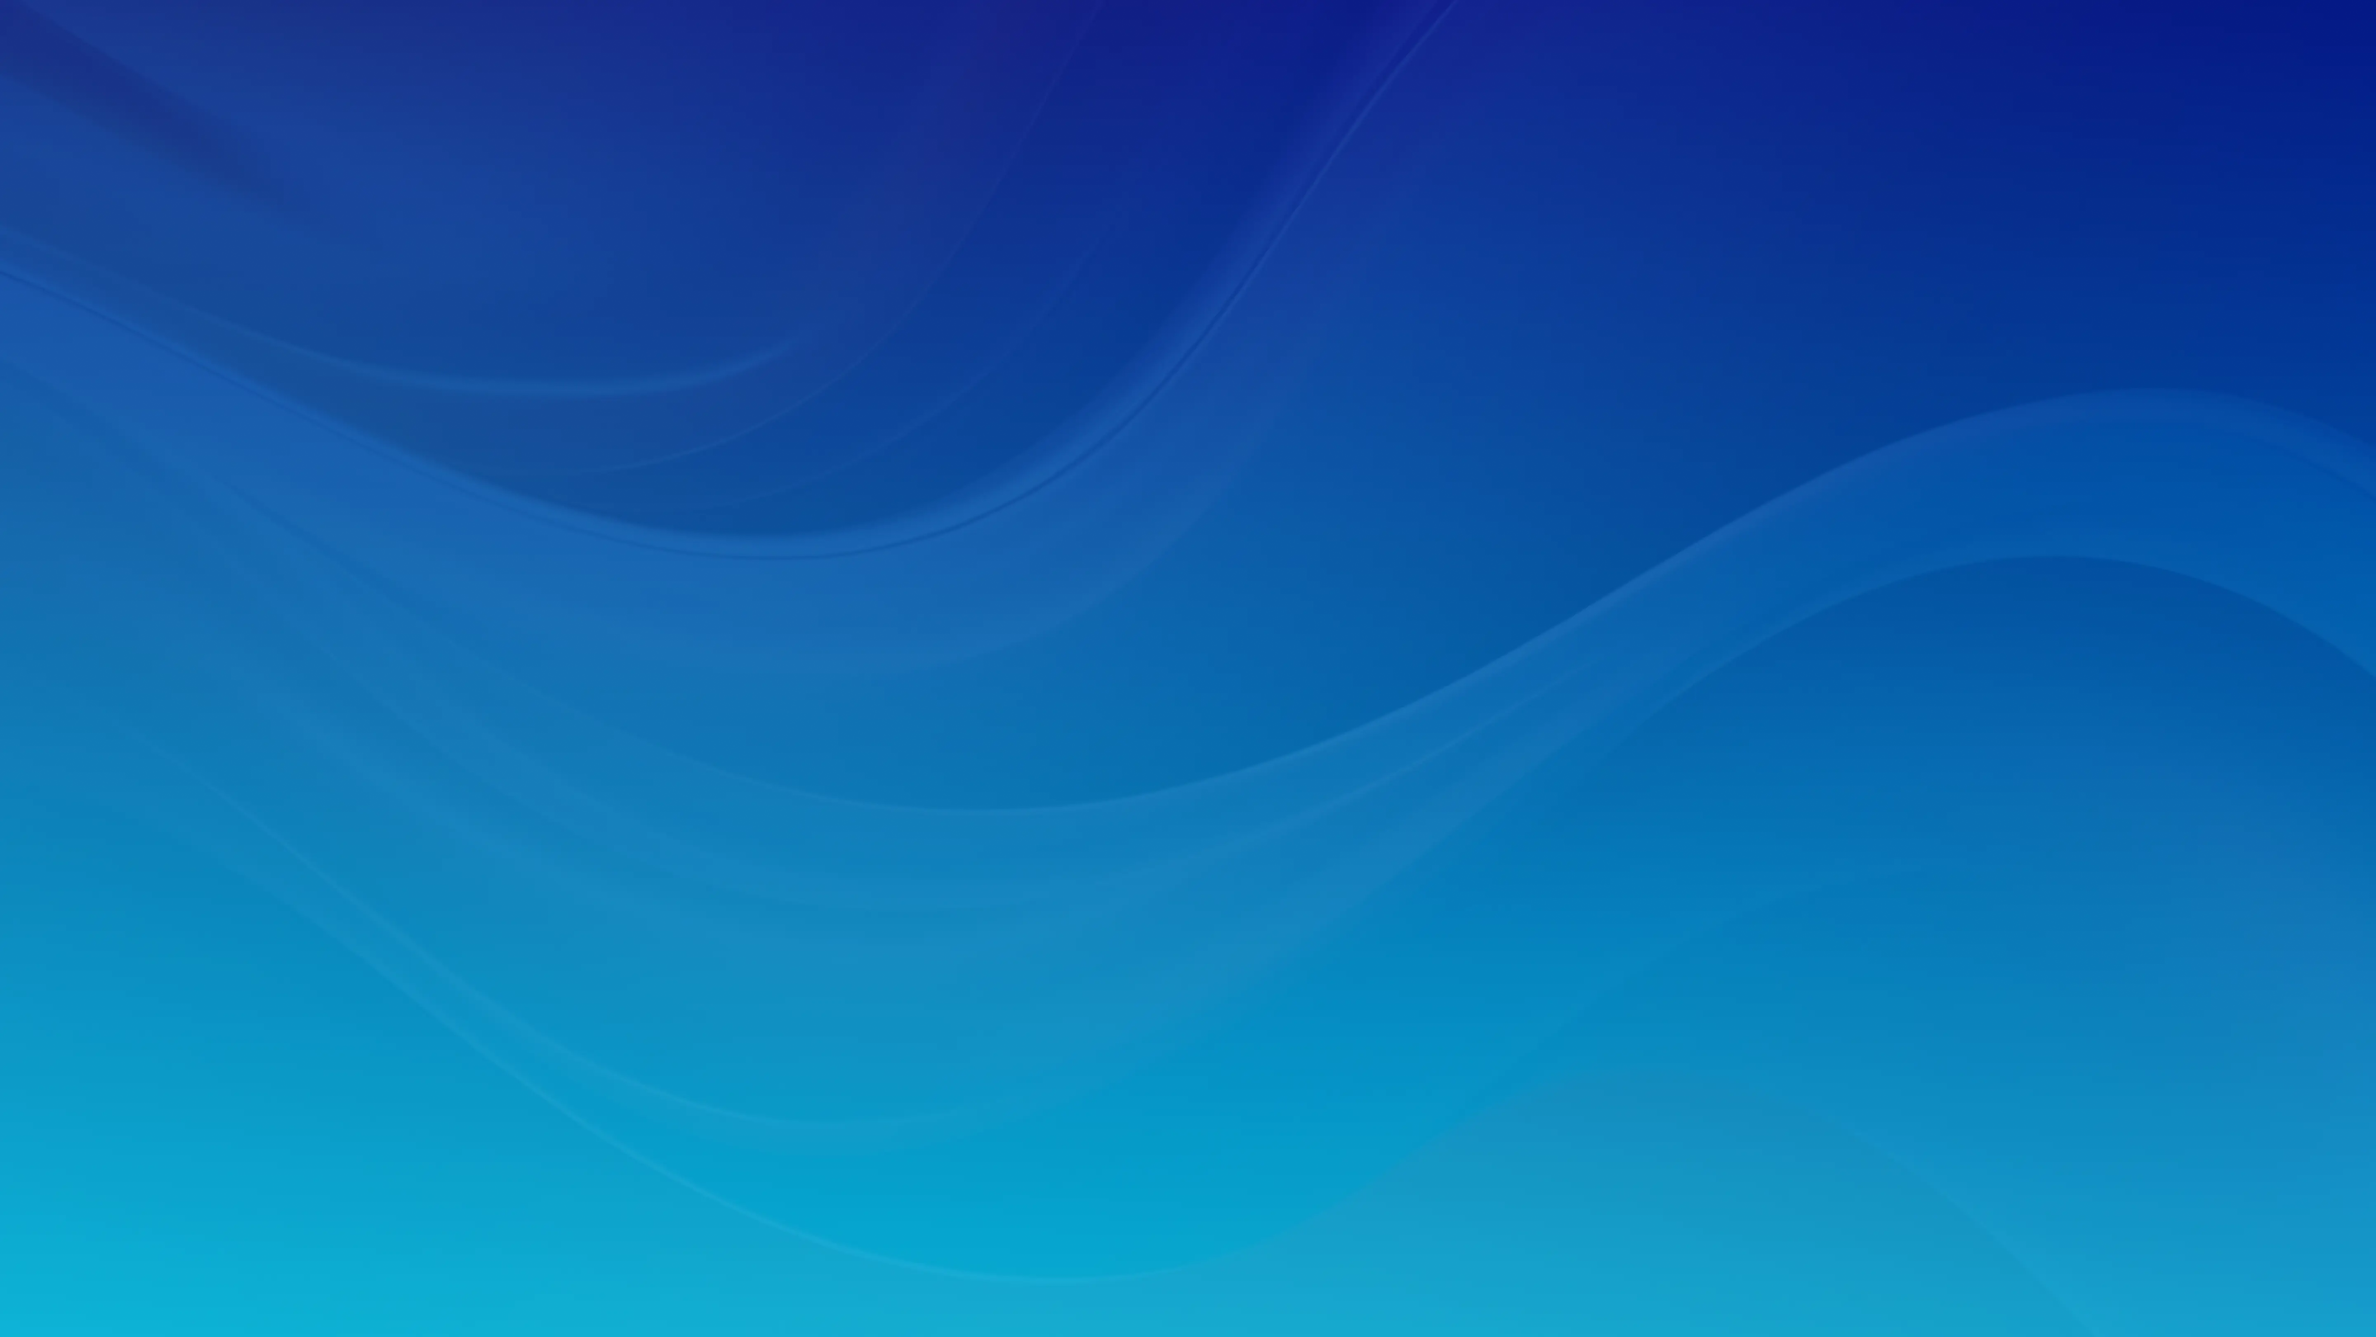
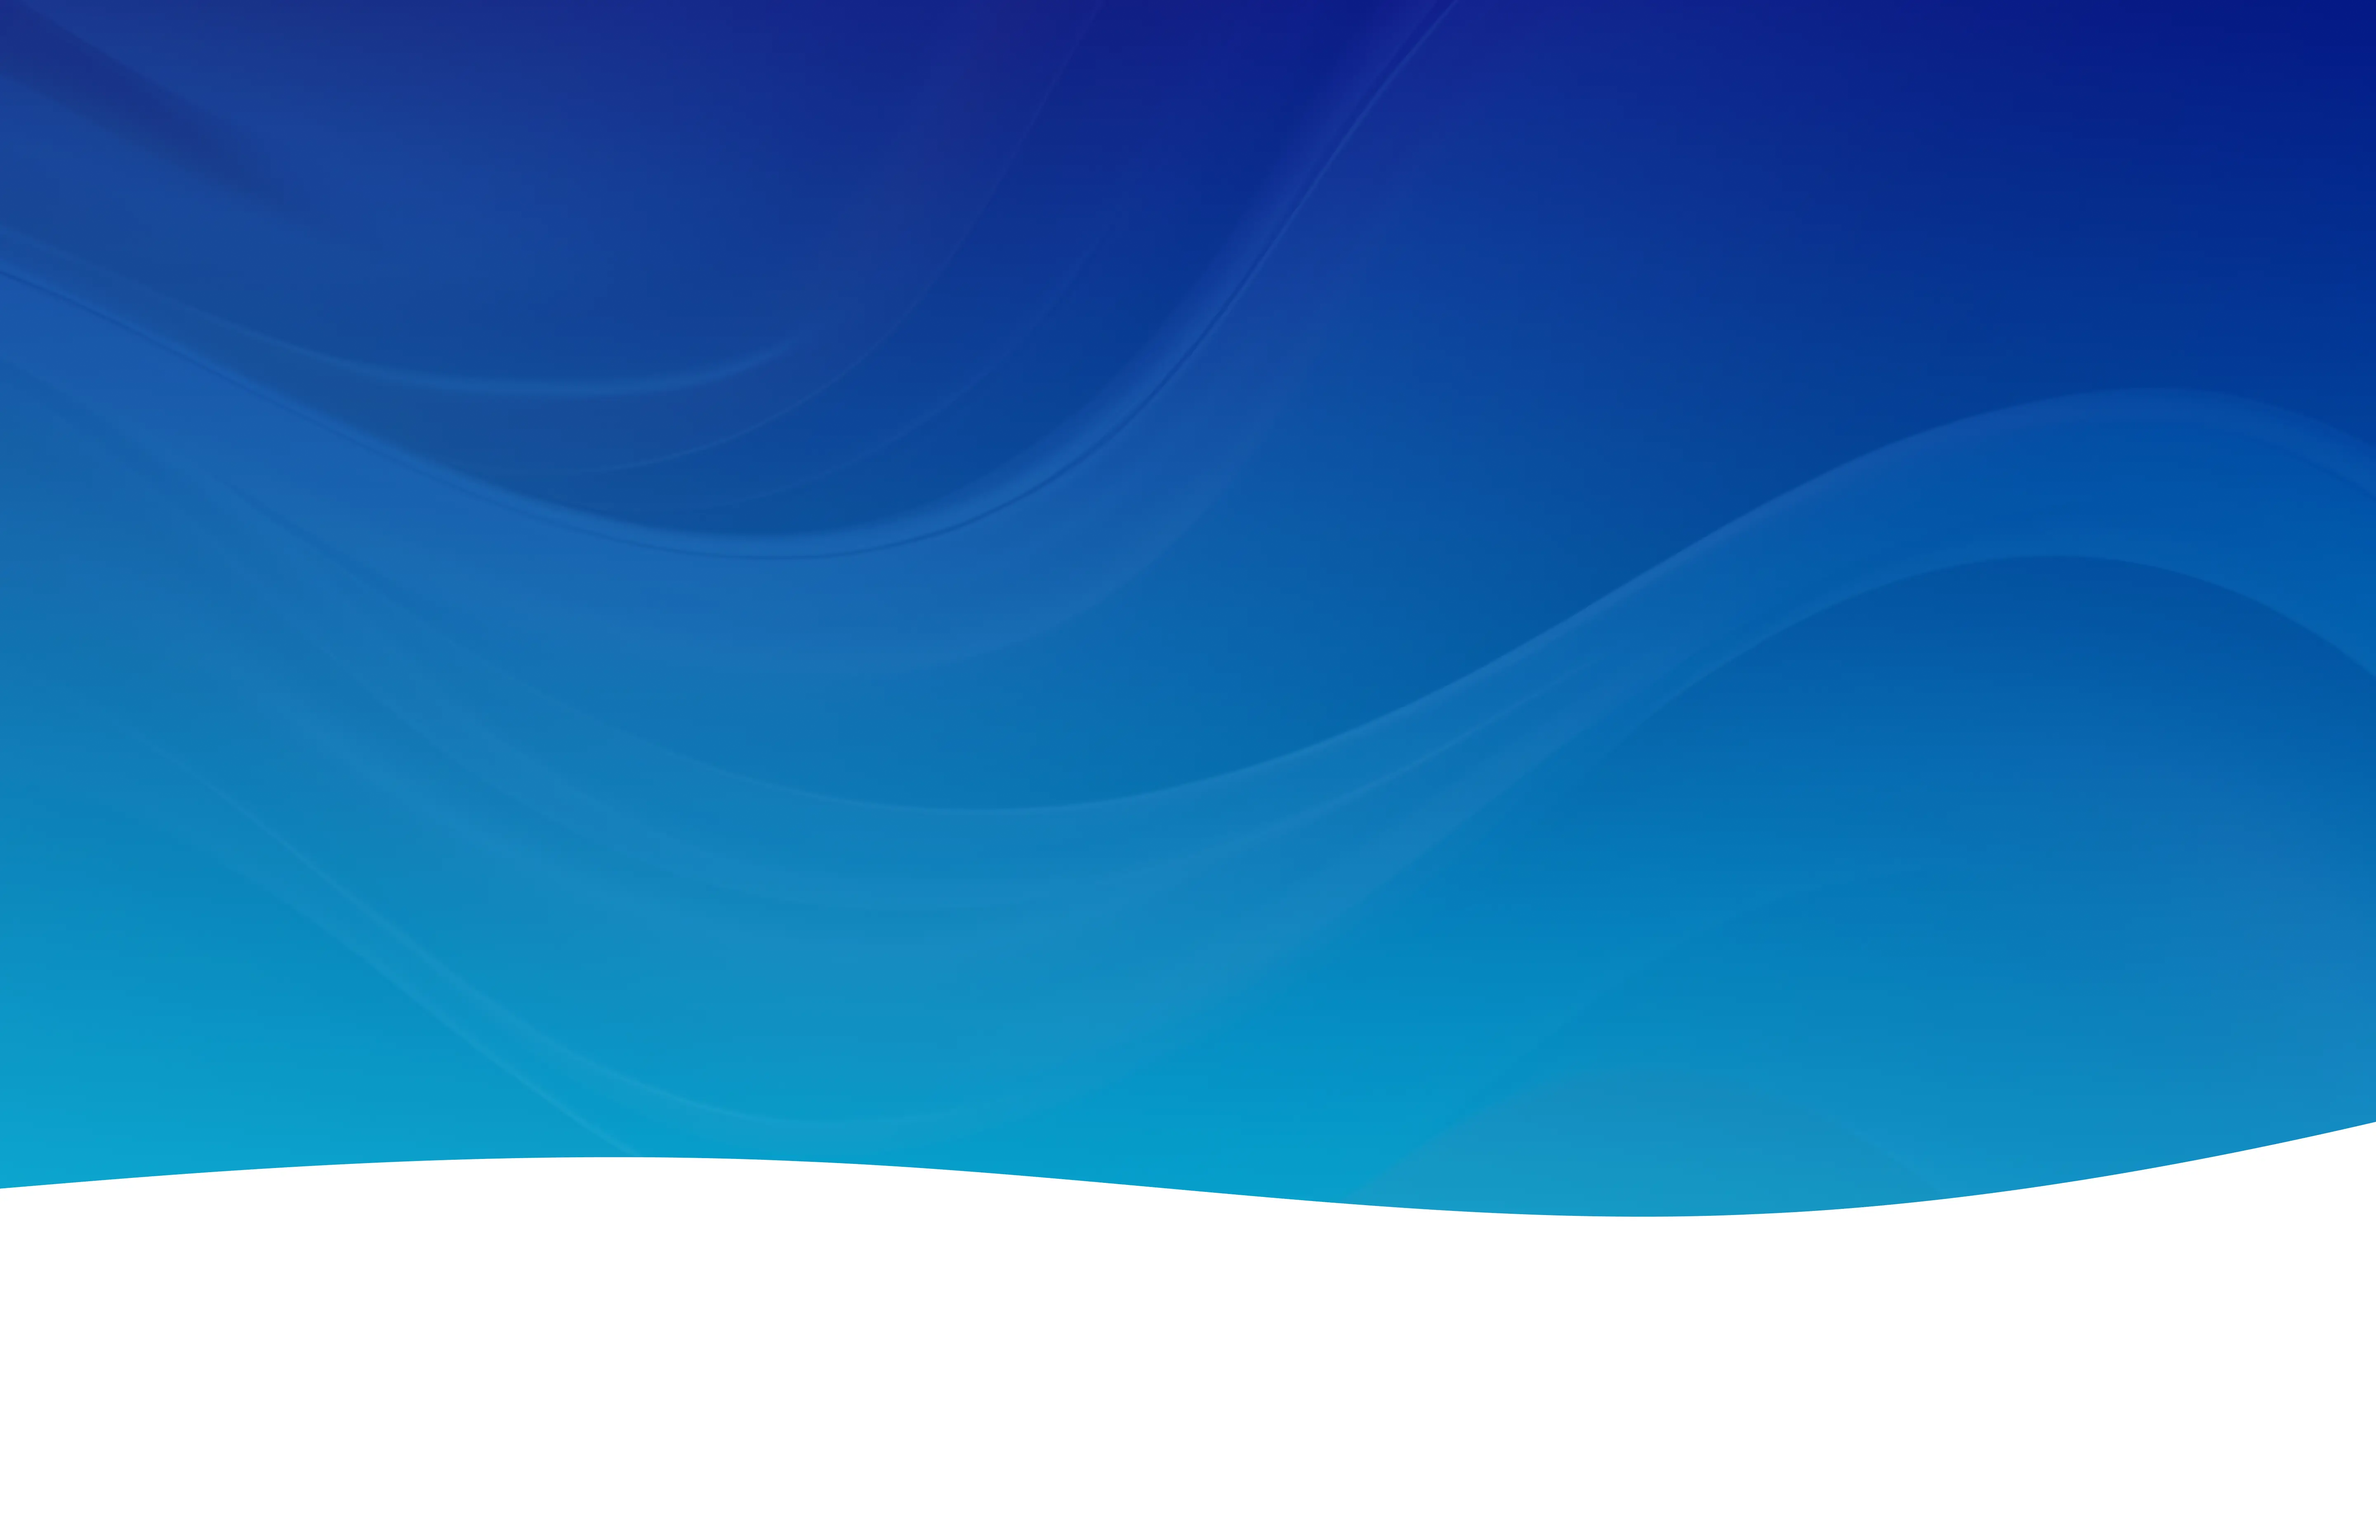
Header

Changed region(s): [[0.0, 0.717, 1.0, 1.0], [0.25, 0.3429, 0.3438, 0.4052], [0.4062, 0.3117, 0.4375, 0.3429]]

diff --git a/src/components/common/Icons.jsx b/src/components/common/Icons.jsx
@@ -1,7 +1,24 @@
-import React from 'react'
 
-export const Icons = () => {
+export const Help = () => {
   return (
-    <div>Icons</div>
+    <svg width="41" height="41" viewBox="0 0 41 41" fill="none" xmlns="http://www.w3.org/2000/svg">
+    <g clip-path="url(#clip0_103_768)">
+    <path d="M16.8691 0.822147C13.3379 2.1659 11.0254 3.94715 9.30664 6.63465C8.30664 8.19715 7.18164 11.5409 7.18164 12.9159C7.18164 13.5096 6.99414 13.9159 6.65039 14.0096C3.71289 14.9471 3.43164 15.6346 3.43164 22.1034C3.43164 28.1346 3.71289 29.0721 5.77539 29.9471C7.08789 30.4784 10.3379 30.5409 10.8691 30.0096C11.4004 29.4784 11.4004 14.7284 10.8691 14.1971C10.6504 13.9784 10.1504 13.8221 9.74414 13.8221C8.99414 13.8221 8.96289 13.7596 9.15039 12.1971C9.74414 7.4159 13.9316 3.19715 19.1816 2.2284C25.2441 1.13465 31.9629 6.07215 32.7129 12.1971C32.9004 13.7596 32.8691 13.8221 32.1191 13.8221C30.6816 13.8221 30.6191 14.1034 30.6191 22.1034C30.6191 30.0721 30.6816 30.3846 32.0879 30.3846C32.9629 30.3846 33.0566 31.3846 32.3379 33.1346C31.6191 34.8221 30.6816 35.6659 28.9316 36.1659C26.5879 36.8846 25.8691 36.7909 25.2441 35.6971L24.7129 34.7596H21.4629C19.3691 34.7596 18.1191 34.8846 17.8691 35.1346C17.3691 35.6346 17.3691 39.5096 17.8691 40.0096C18.1191 40.2596 19.4316 40.3846 21.6504 40.3846H25.0566L25.4004 39.4784C25.6816 38.6659 25.9316 38.5721 27.4629 38.3846C31.4941 37.9159 33.7754 35.9471 34.4629 32.3221C34.7754 30.5721 34.9004 30.4159 36.0254 29.9159C38.1816 28.9471 38.4316 28.1659 38.4316 22.1034C38.4316 15.6346 38.1504 14.9471 35.2441 14.0096C34.8691 13.9159 34.6816 13.5096 34.6816 12.9159C34.6816 11.5409 33.5566 8.19715 32.5566 6.63465C31.1504 4.4159 29.4004 2.9159 26.8691 1.6659C24.6816 0.603397 24.3066 0.540897 21.2441 0.478397C19.0879 0.415897 17.5879 0.540897 16.8691 0.822147ZM9.36914 22.1034V28.5096H8.15039C7.27539 28.5096 6.61914 28.2909 6.02539 27.7596L5.15039 27.0096V22.1034V17.1971L6.02539 16.4471C6.61914 15.9159 7.27539 15.6971 8.15039 15.6971H9.36914V22.1034ZM35.8379 16.4471L36.7129 17.1971V22.1034V27.0096L35.8379 27.7596C35.2441 28.2909 34.5879 28.5096 33.7129 28.5096H32.4941V22.1034V15.6971H33.7129C34.5879 15.6971 35.2441 15.9159 35.8379 16.4471ZM23.7441 37.7284V38.8221H21.5566H19.3691V37.7284V36.6346H21.5566H23.7441V37.7284Z" fill="#03045E"/>
+    <g clip-path="url(#clip1_103_768)">
+    <path d="M19.0068 12.472C18.582 12.5712 17.7041 12.9252 17.0244 13.2509C15.2827 14.1146 13.9941 15.4315 13.1304 17.2299C12.3657 18.8016 12.1816 19.6229 12.1816 21.3221C12.1816 23.0214 12.3657 23.8427 13.1304 25.4144C14.0225 27.2694 15.2969 28.5438 17.1519 29.4359C18.7236 30.2006 19.5449 30.3846 21.2441 30.3846C22.9434 30.3846 23.7646 30.2006 25.3364 29.4359C26.3984 28.9261 26.8657 28.6005 27.687 27.765C28.5225 26.9437 28.8481 26.4764 29.3579 25.4144C30.1226 23.8427 30.3066 23.0214 30.3066 21.3221C30.3066 19.6229 30.1226 18.8016 29.3579 17.2299C28.4658 15.3749 27.1914 14.1005 25.3364 13.2084C24.6001 12.8544 23.6655 12.5004 23.2549 12.4154C22.2637 12.203 19.9414 12.2313 19.0068 12.472ZM22.9717 13.265C23.3823 13.35 24.2461 13.6757 24.8833 13.973C27.6587 15.3041 29.457 18.1786 29.457 21.3221C29.457 22.6815 29.2305 23.6161 28.5933 24.9613C27.5596 27.1278 25.2939 28.8978 22.9717 29.3793C19.29 30.1439 15.481 28.2748 13.895 24.9613C13.2578 23.6161 13.0312 22.6815 13.0312 21.3221C13.0312 19.9628 13.2578 19.0282 13.895 17.683C14.9004 15.5731 17.0103 13.8597 19.29 13.3075C20.2388 13.0809 21.9946 13.0668 22.9717 13.265Z" fill="#00B5D8"/>
+    <path d="M20.3521 16.7059C19.3608 17.0741 18.6953 17.9803 18.6953 18.9574C18.6953 19.807 19.3184 19.7787 19.5449 18.9291C19.7432 18.1786 20.1821 17.6688 20.7627 17.5131C21.938 17.1874 23.0283 18.1219 22.9009 19.3256C22.8442 19.8778 22.7168 20.0477 21.9097 20.8124C20.9185 21.7328 20.7485 22.1151 20.8477 23.2338C20.8901 23.7294 20.9326 23.8002 21.2441 23.8002C21.5698 23.8002 21.5981 23.7435 21.6689 22.993C21.7397 22.2001 21.7681 22.1434 22.6885 21.2797C23.708 20.3026 23.8921 19.8778 23.7505 18.6884C23.5806 17.1874 21.8247 16.1537 20.3521 16.7059Z" fill="#00B5D8"/>
+    <path d="M20.6067 24.9188C20.1819 25.556 20.7908 26.3065 21.5413 26.0658C22.3201 25.8109 22.0794 24.579 21.2439 24.579C20.9607 24.579 20.7483 24.6922 20.6067 24.9188Z" fill="#00B5D8"/>
+    </g>
+    </g>
+    <defs>
+    <clipPath id="clip0_103_768">
+    <rect width="40" height="40" fill="white" transform="translate(0.931641 0.384644)"/>
+    </clipPath>
+    <clipPath id="clip1_103_768">
+    <rect width="18.125" height="18.125" fill="white" transform="translate(12.1816 12.2596)"/>
+    </clipPath>
+    </defs>
+    </svg>
+    
   )
 }

diff --git a/src/components/Head.jsx b/src/components/Head.jsx
@@ -1,0 +1,38 @@
+import mobile from '../assets/images/headmobile.webp'
+import { Help } from './common/Icons'
+
+const Head = () => {
+  return (
+    <div className='bg-[url(./assets/images/Herobg.webp)] bg-cover bg-center bg-no-repeat min-h-screen flex flex-col'>
+      <div className="flex flex-grow items-center">
+<div className="container max-w-[1164px] ">
+<div className="flex flex-row flex-wrap -mx-3 items-center">
+<div className="w-1/2 px-3">
+<h1 className=' text-white text-6xxl leading-full font-light max-w-[520px] mb-2'><span className=' font-extrabold'>Find the location</span> of any phone by its number</h1>
+<p className=' text-white text-base font-normal mb-6'>Add phones to your account & track them when neededAdd phones to your account & track them when needed</p>
+<div className='flex'>
+
+      </div>
+</div>
+<div className="w-1/2 px-3 relative">
+  <img src={mobile} alt="mobile"  className=' -translate-x-16'/>
+    <div className=' max-w-[280.07px] p-[18px] bg-[#ffffff] absolute w-full top-[44%] right-[1%] shadow-[0px_0px_24.6px_0px_#00000059] rounded-tl-xl rounded-br-xl
+'>
+<div className="flex justify-between items-center">
+<p className=' text-skyBlue text-2xl leading-lg font-bold'>Need help?</p>
+<Help/>
+</div>
+<p className=' text-darkBlue text-base font-normal max-w-[198px] mb-[14px]'>Get help with technical, account and billing enquiries.</p>
+<button className=' w-full bg-darkBlue text-white py-4 rounded '>
+Customer Support
+</button>
+  </div>
+</div>
+</div>
+</div>
+      </div>
+    </div>
+  )
+}
+
+export default Head

diff --git a/src/components/Companies.jsx b/src/components/Companies.jsx
@@ -1,0 +1,17 @@
+import React from 'react'
+const Companies = () => {
+  return (
+    <div className=' bg-[url(./assets/images/companiesBg.webp)] bg-center bg-cover bg-no-repeat'>
+        <div className=' container max-w-[1164px]'>
+            <h2 className=' text-white text-5xl leading-full font-light text-center max-w-[664px] mx-auto mb-[109px]'>Join <span className=' font-extrabold'>70,000+ companies</span> doing time tracking the easy way</h2>
+            <div className="flex justify-center">
+                <div className="max-w-[467px] bg-white p-[34px] w-full">
+                    <h3 className='text-darkBlue text-3xxl leading-sm'>Cell Tracker</h3>
+                </div>
+            </div>
+        </div>
+    </div>
+  )
+}
+
+export default Companies

diff --git a/tailwind.config.js b/tailwind.config.js
@@ -12,7 +12,8 @@ lineHeight:{
   'lg':'166%',
 },
 fontSize:{
-  '3xxl':'32px'
+  '3xxl':'32px',
+  '6xxl':'64px',
 },
 
 colors:{
@@ -20,8 +21,11 @@ colors:{
   lightBlack:'#4D4D4C',
   lightBlue:'#DDF9FF',
   skyBlue:'#00B5D8'
-}
-
+},
+container: {
+  center: true,
+  padding: "1rem",
+},
     },
   },
   plugins: [],

diff --git a/src/pages/LandingPage.jsx b/src/pages/LandingPage.jsx
@@ -1,10 +1,12 @@
 import React from 'react'
-import Head from '../components/homepage/Head'
+import Head from '../components/Head'
+import Companies from '../components/Companies'
 
 const LandingPage = () => {
   return (
     <div>
       <Head/>
+      <Companies/>
     </div>
   )
 }
